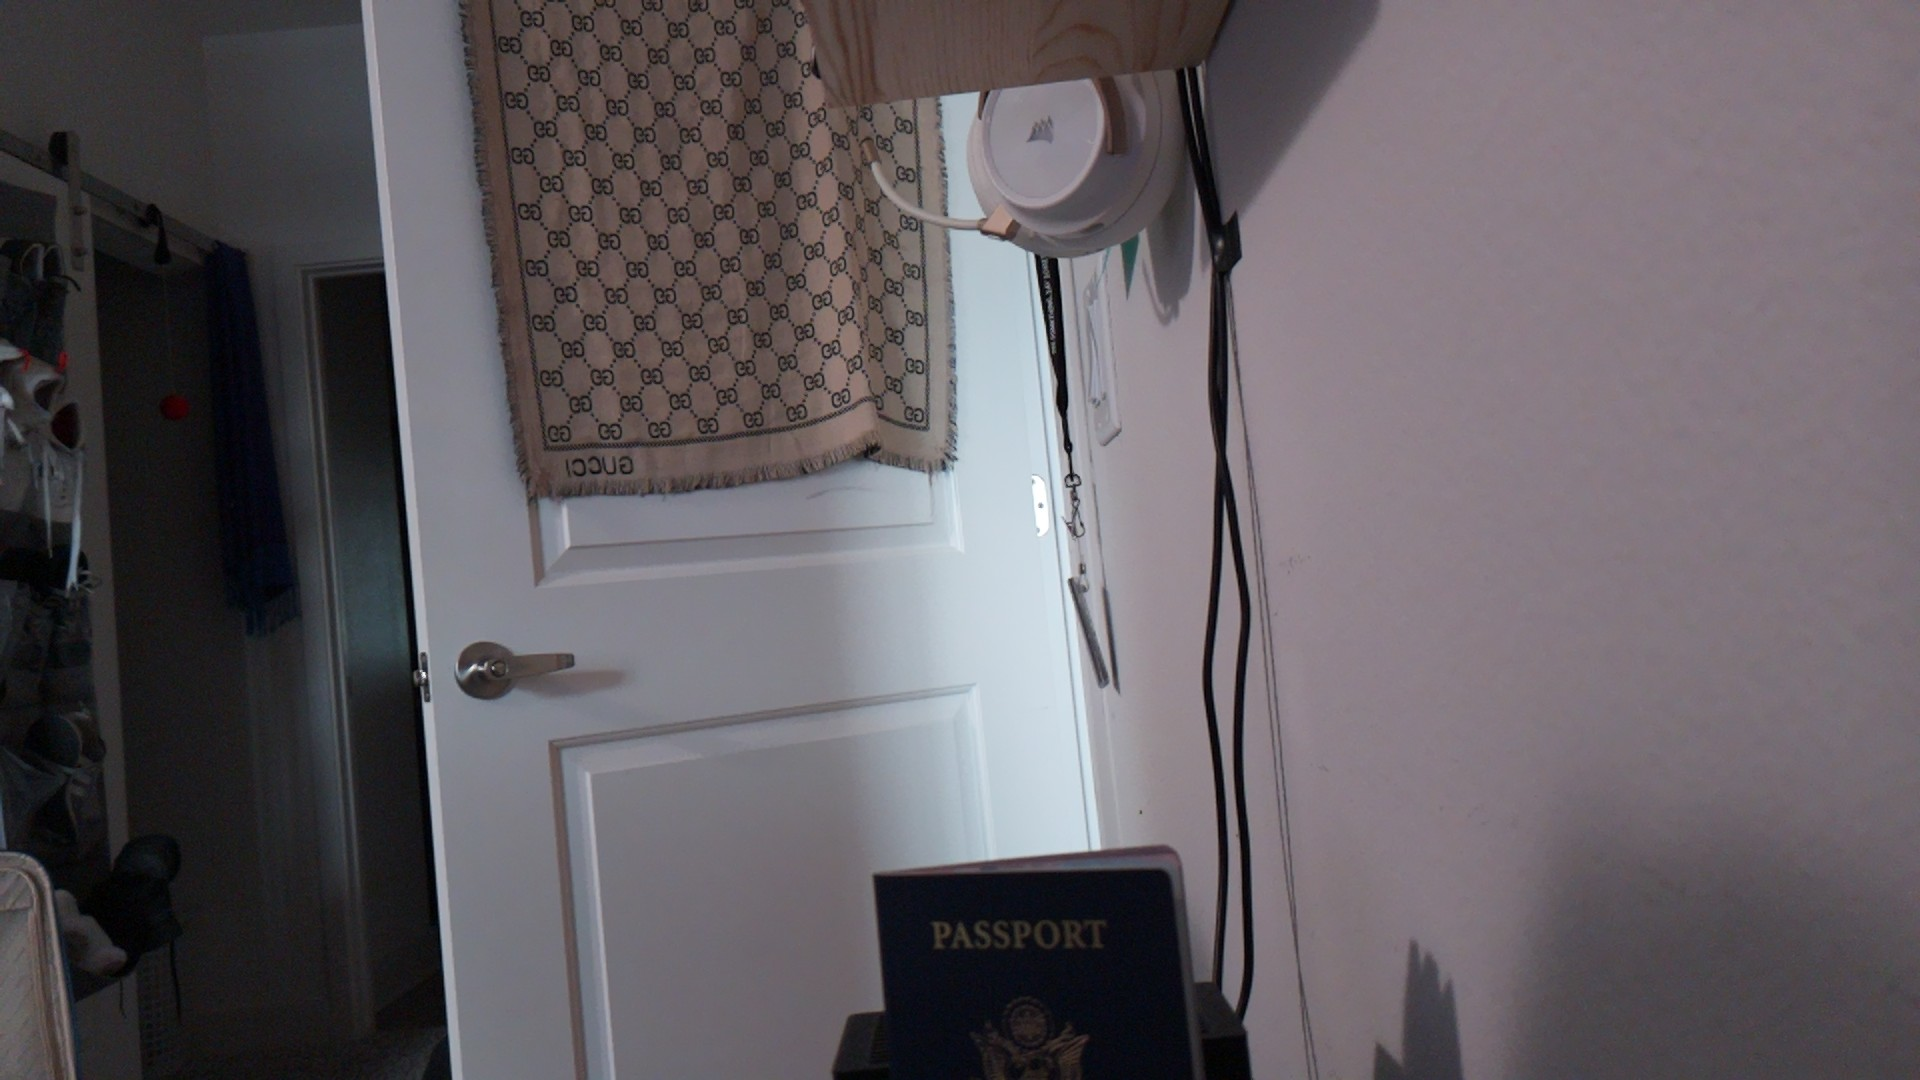
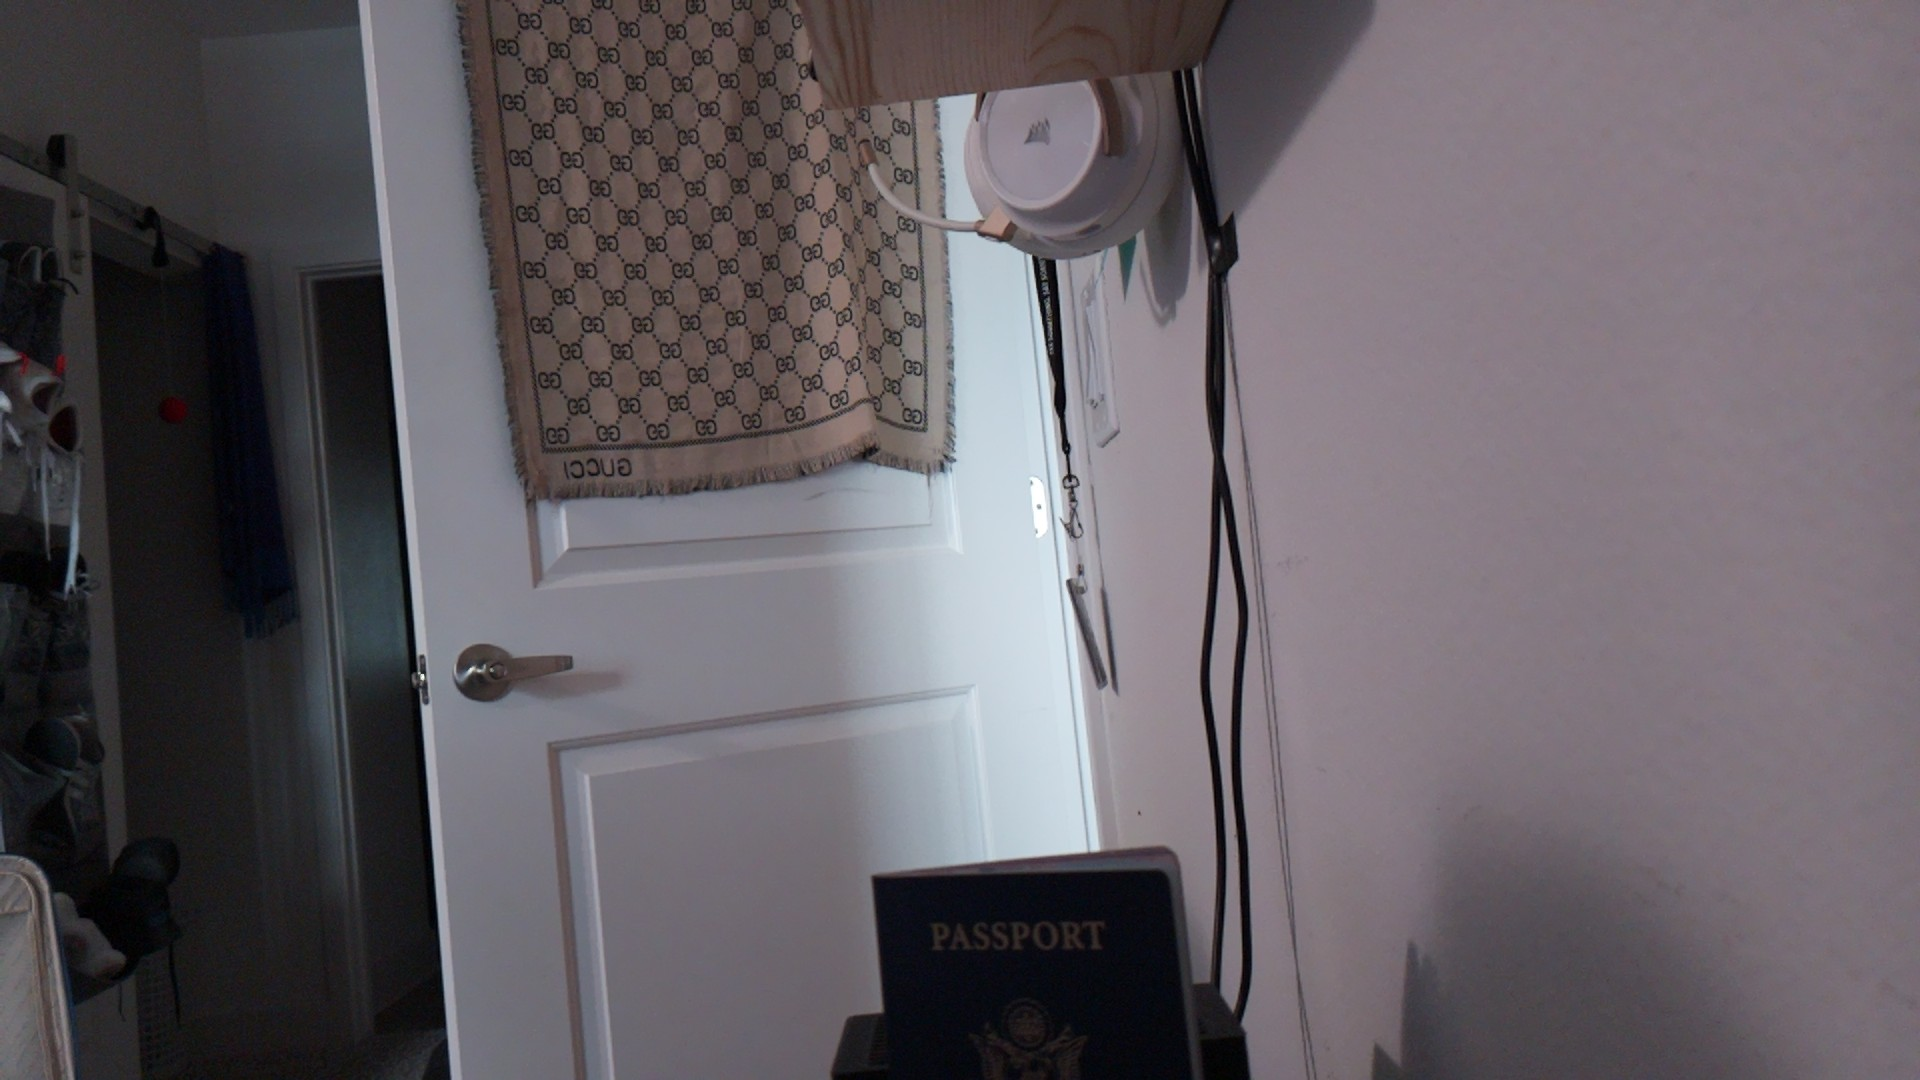
update config zoom and pan through web app

diff --git a/web_dash/index.js b/web_dash/index.js
@@ -66,6 +66,21 @@ app.get("/camera/refresh", (req,res) =>{
     execSync("/usr/bin/python3 /home/pi/HighlightReel/web_dash/scripts/capture.py " + req.query.zoom + " " + req.query.pan_x + " " + req.query.pan_y)
     console.log("done")
 
+    const fs = require('fs');
+    var name = "/home/pi/HighlightReel/core/res/config-custom.json"
+    fs.readFile(name, 'utf8', (err, data) => {
+        if (err) throw err;
+        var config = JSON.parse(data)
+
+        config['zoom'] = req.query.zoom.trim()
+        config['panX'] = req.query.pan_x.trim()
+        config['panY'] = req.query.pan_y.trim()
+
+        var modifiedConfig = JSON.stringify(config, null, "\t")
+        fs.writeFileSync(name, modifiedConfig)
+    })
+
+
     res.sendFile("/home/pi/HighlightReel/web_dash/res/capture.jpg")
 })
 
